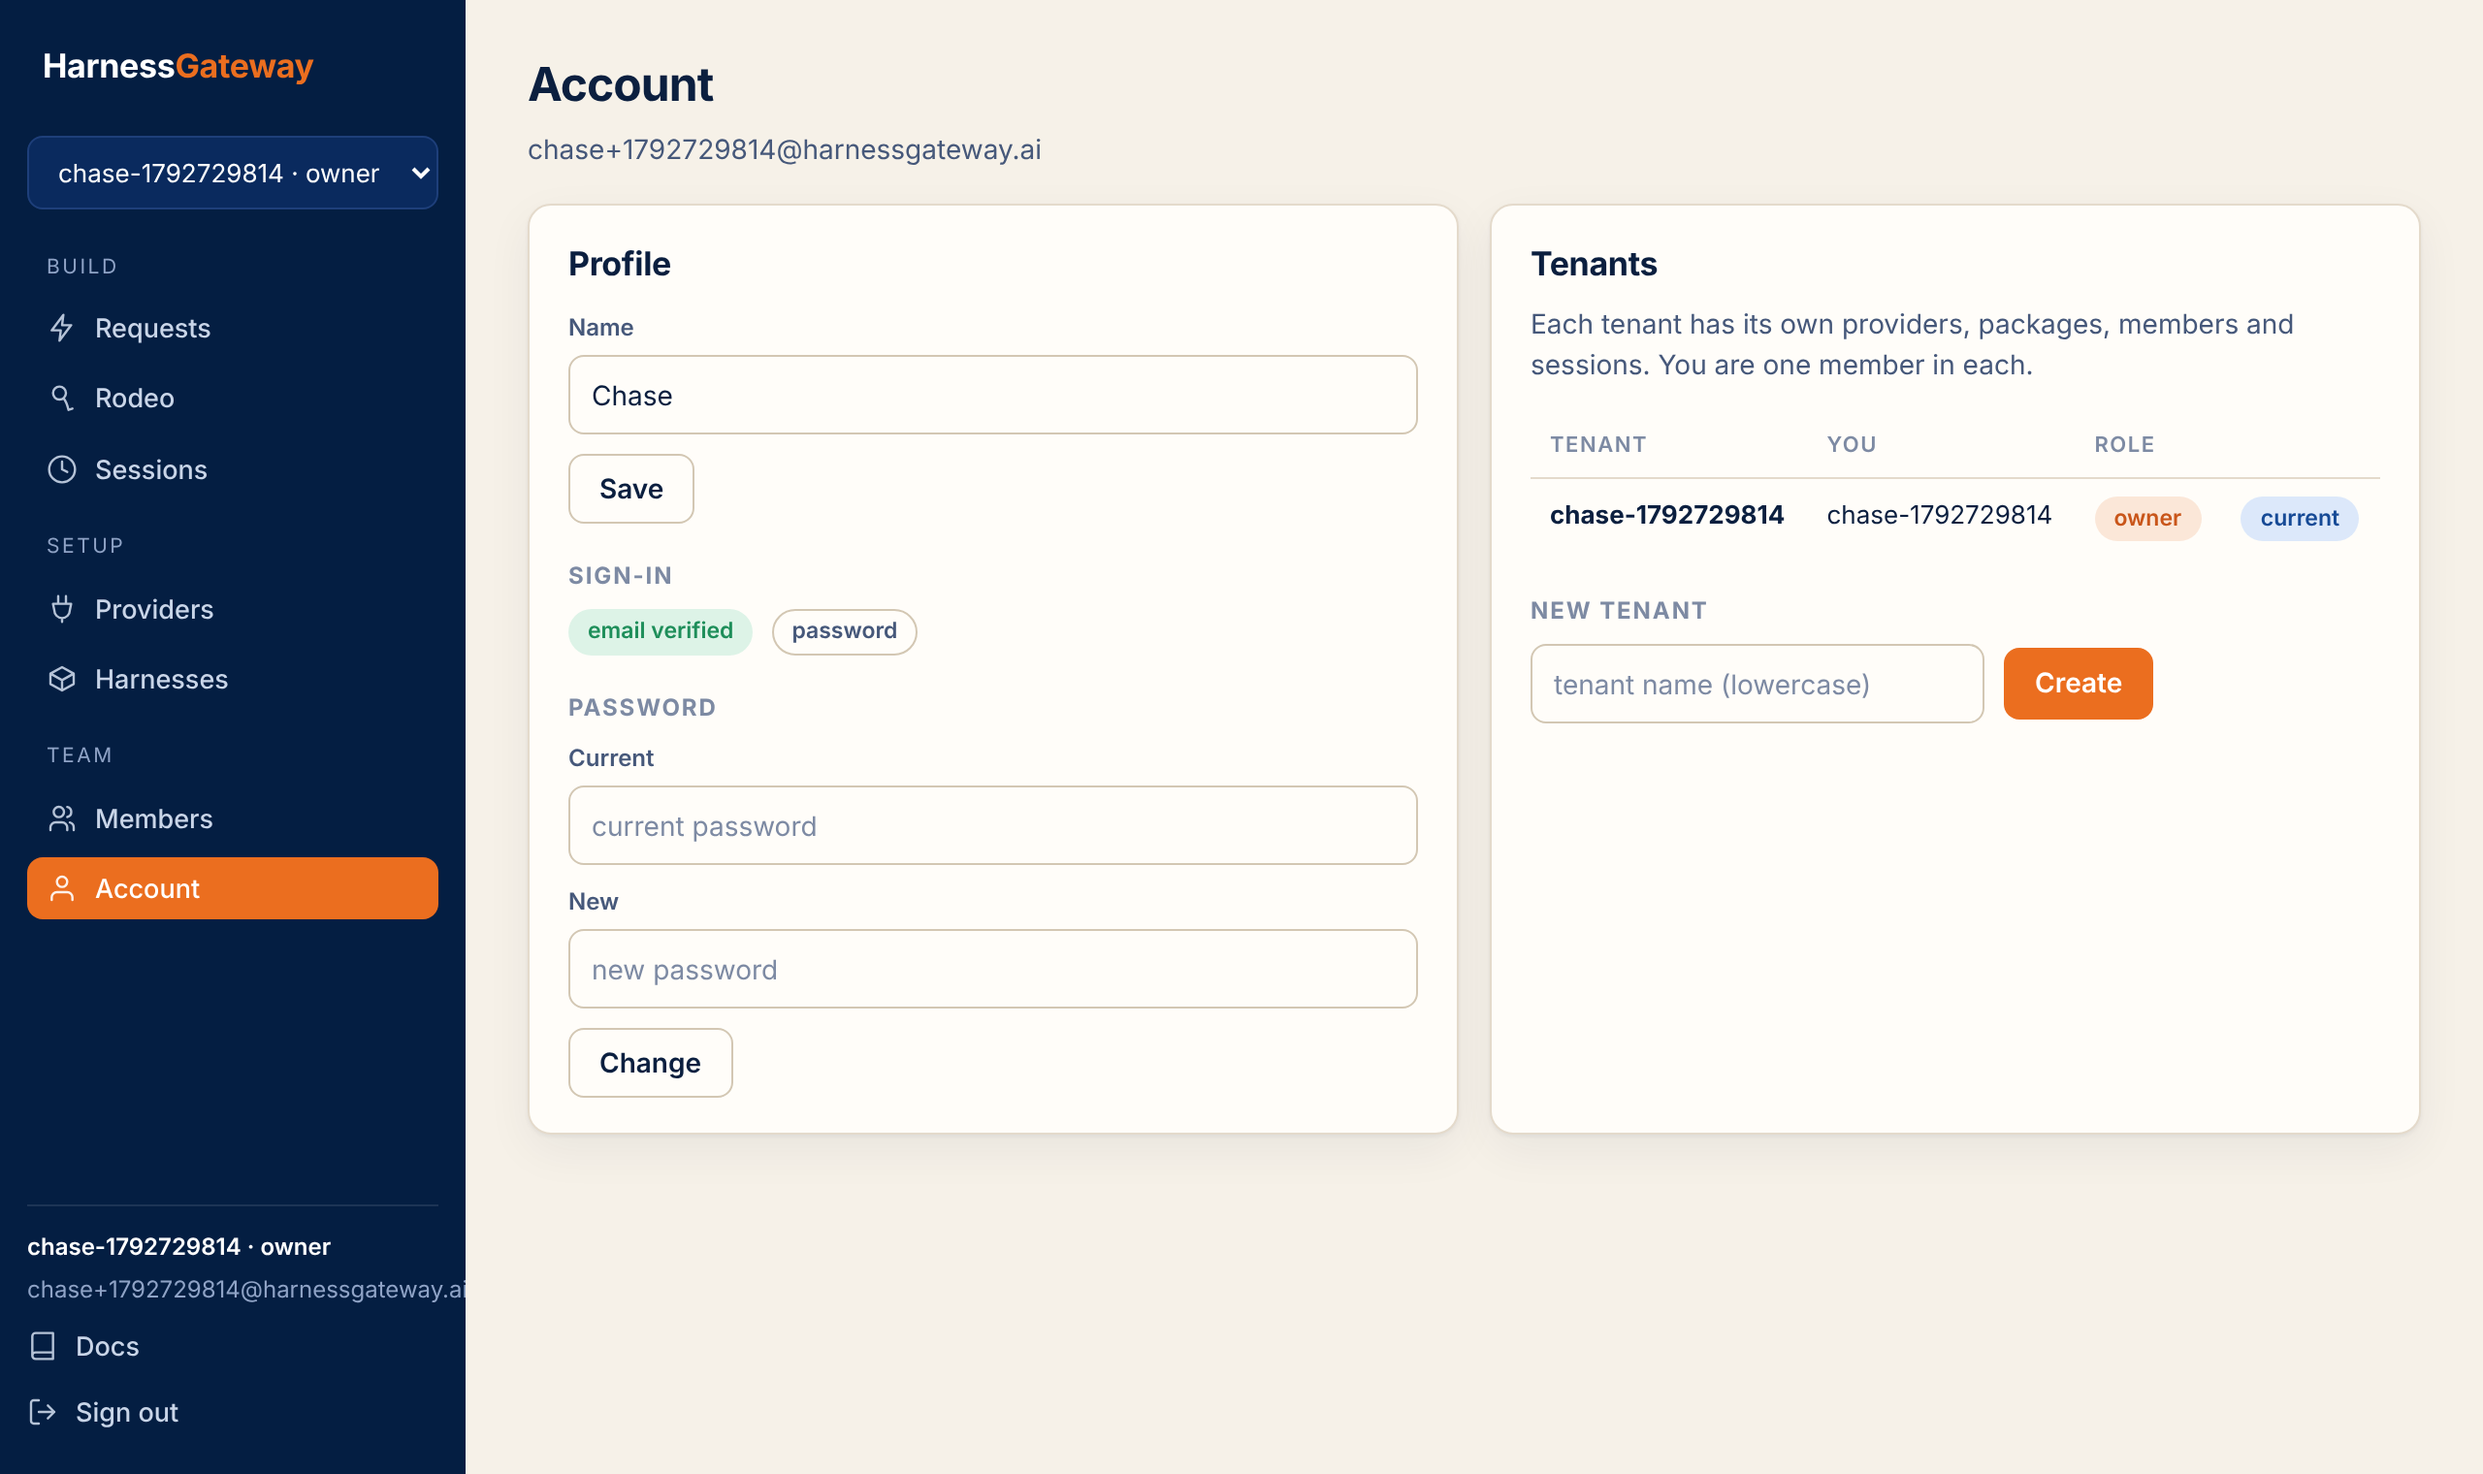
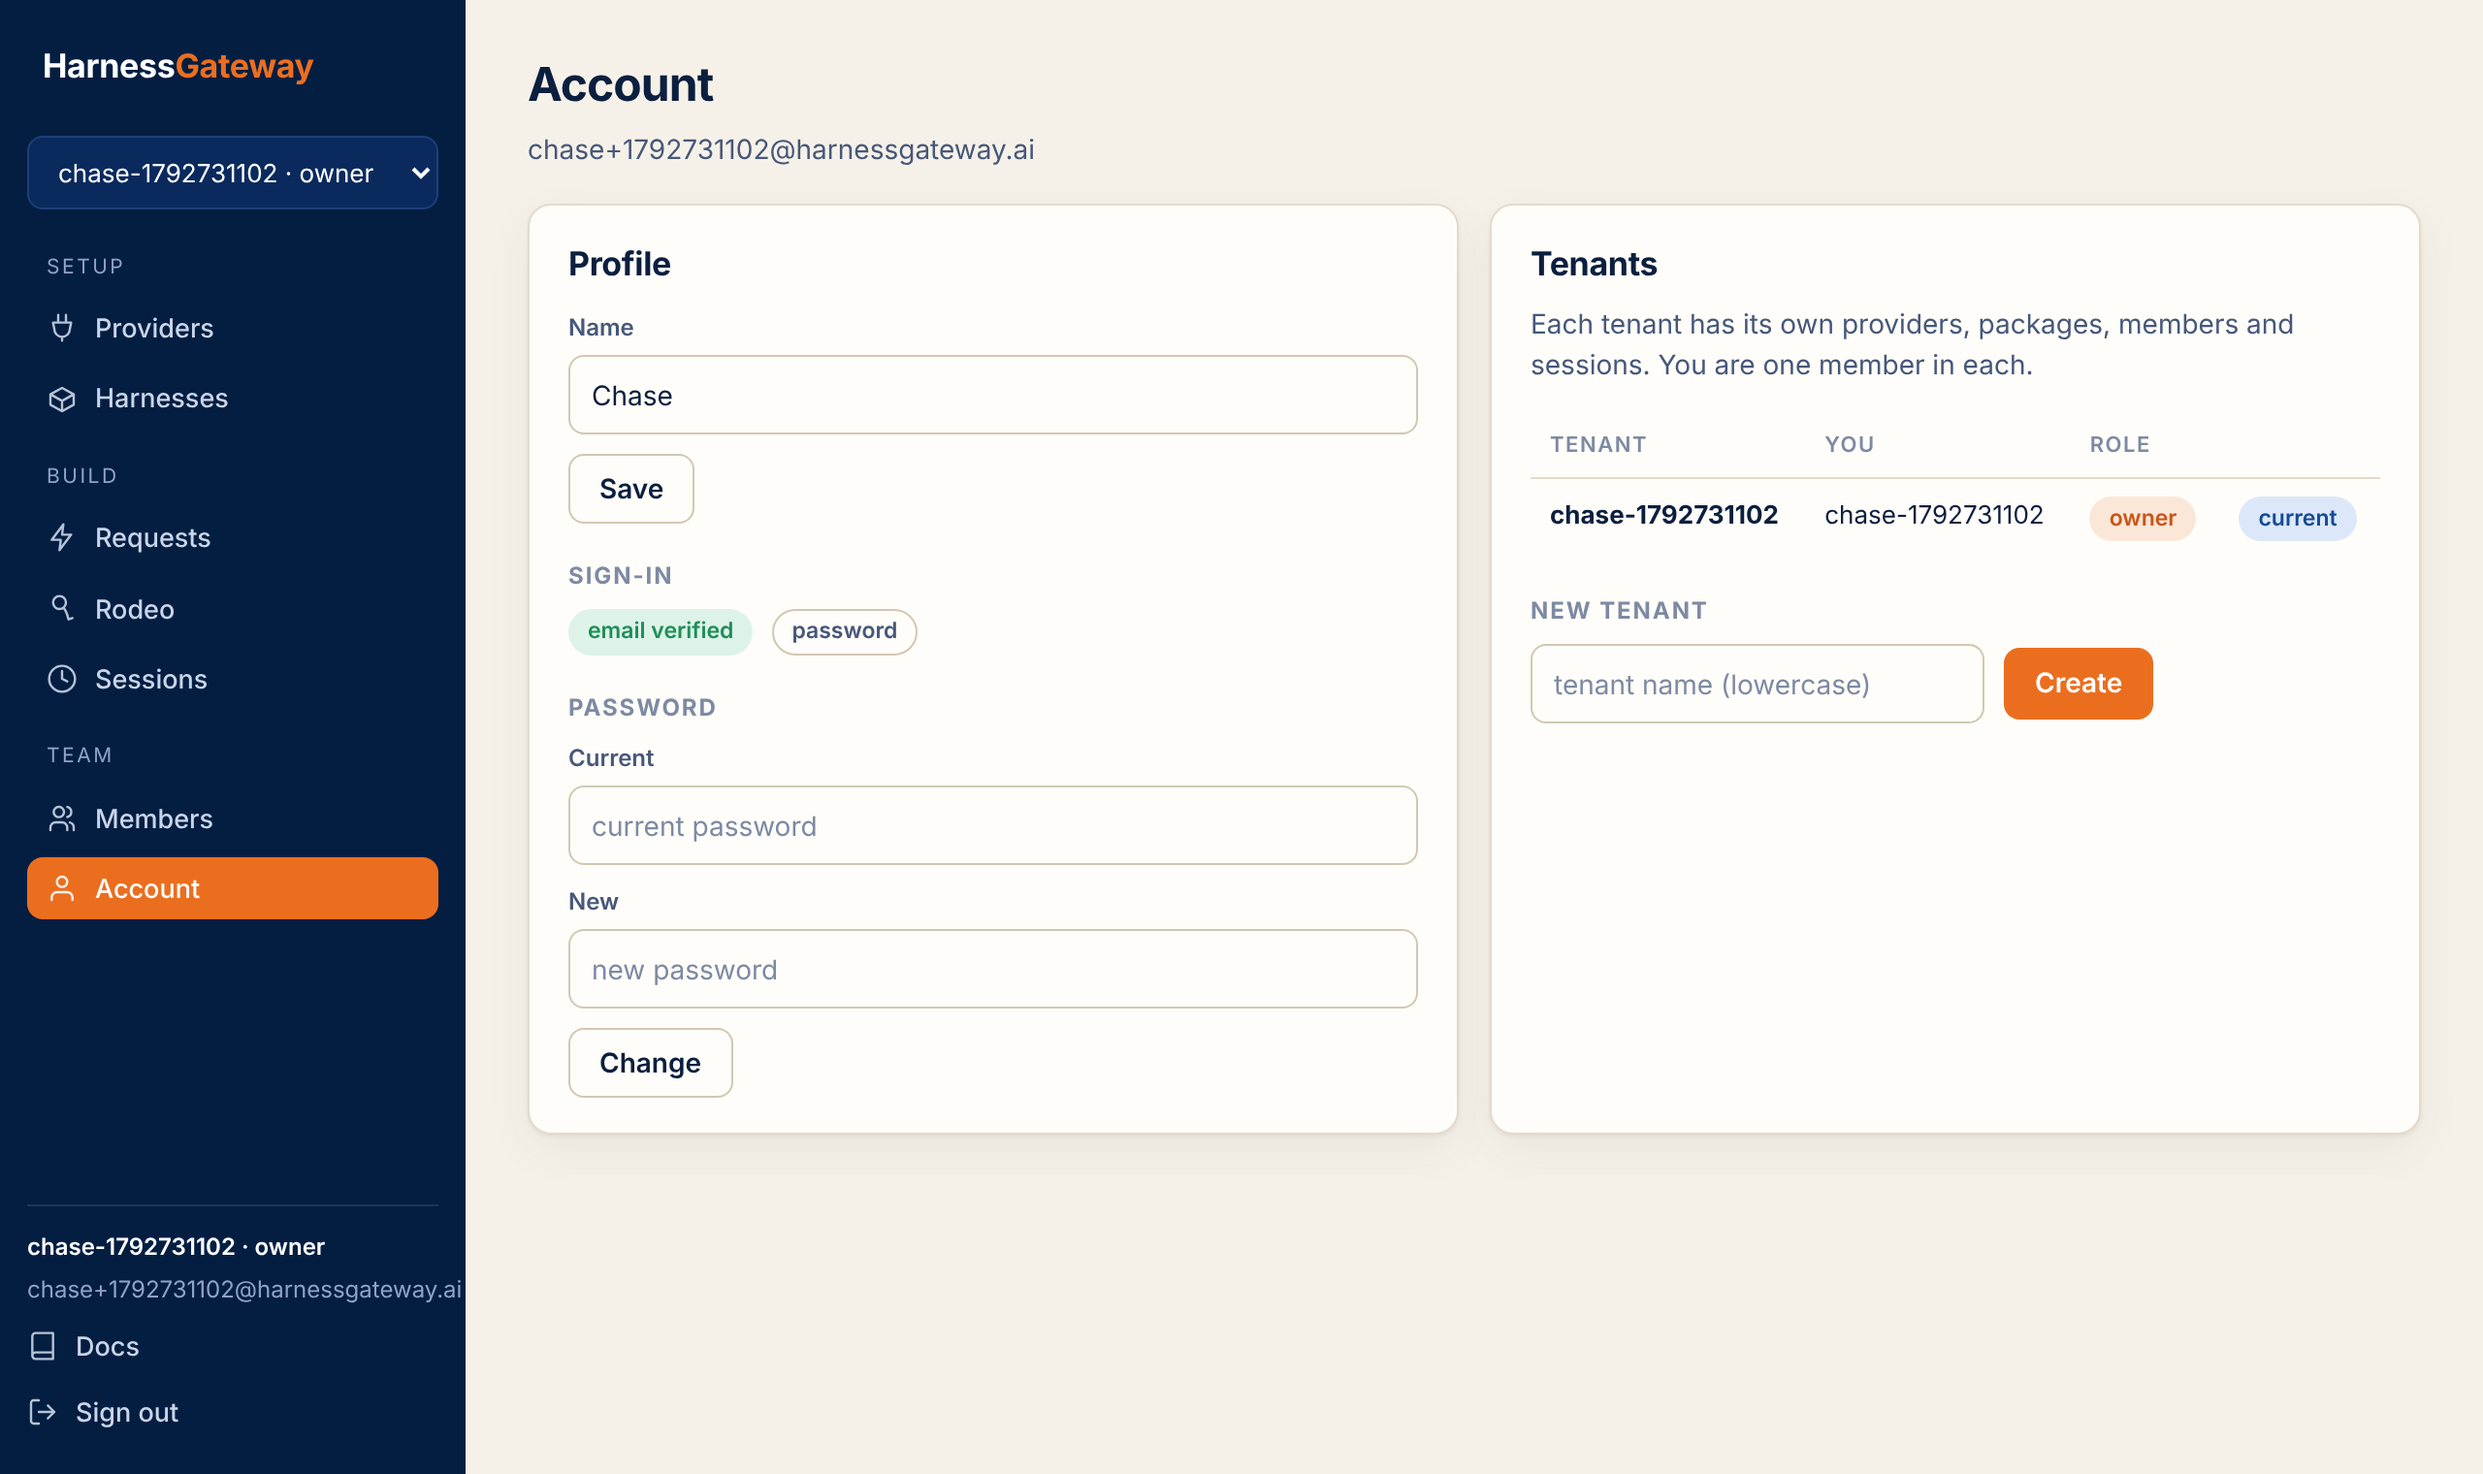
6.1.2: the sidebar in the order you use it
Setup (Providers, Harnesses) first, Build (Requests, Rodeo, Sessions) below it, Team (Members,
Account) at the bottom. A fresh sign-in lands on Providers. The docs' page table follows the
groups, every console screenshot is re-shot with the new order, and the three unreferenced
arena screenshots are gone.

Claude-Session: https://claude.ai/code/session_01ERRZXAJHGKJWMvAyf4LasW

diff --git a/web/app.js b/web/app.js
@@ -104,7 +104,7 @@ function login(note, mode = "signin", resetToken = "") {
 
 // the shell
 const NAV = {
-  member: [["Build", [["Requests", "bolt"], ["Rodeo", "lasso"], ["Sessions", "clock"]]], ["Setup", [["Providers", "plug"], ["Harnesses", "box"]]], ["Team", [["Members", "users"], ["Account", "user"]]]],
+  member: [["Setup", [["Providers", "plug"], ["Harnesses", "box"]]], ["Build", [["Requests", "bolt"], ["Rodeo", "lasso"], ["Sessions", "clock"]]], ["Team", [["Members", "users"], ["Account", "user"]]]],
   deployer: [["Platform", [["Dashboard", "chart"], ["Tenants", "building"], ["Workers", "server"]]]],
 };
 const VIEWS = { Requests: requests, Rodeo: rodeo, Sessions: sessions, Providers: providers, Harnesses: harnesses, Members: members, Account: account, Dashboard: dashboard, Tenants: tenants, Workers: workers };

diff --git a/docs/app.md b/docs/app.md
@@ -43,17 +43,18 @@ storage only, so closing the tab signs you out.
 
 ## The pages
 
-Signed in as a member or an owner, the sidebar has seven pages, in the order you use them:
+Signed in as a member or an owner, the sidebar has seven pages in three groups, in the order
+you use them: Setup, then Build, then Team.
 
-| Page | What |
-|---|---|
-| Requests | a streamed request against a harness, a steer and a cancel while it runs, the response, and the workspace's files after it |
-| Rodeo | one task for two to six harnesses, side by side as they stream; pick the winner; the leaderboard |
-| Sessions | your sessions, or every member's when you are an owner; each opens to its turns, streams, trace, workspace and archive |
-| Providers | the tenant's model endpoints; owners add and remove them |
-| Harnesses | the tenant's packages, forked from the catalog or uploaded; owners add and remove them |
-| Members | the tenant's members and invitations (owners), and your API keys |
-| Account | your name, your password, your tenants; create another tenant |
+| Group | Page | What |
+|---|---|---|
+| Setup | Providers | the tenant's model endpoints; owners add and remove them |
+| Setup | Harnesses | the tenant's packages, forked from the catalog or uploaded; owners add and remove them |
+| Build | Requests | a streamed request against a harness, a steer and a cancel while it runs, the response, and the workspace's files after it |
+| Build | Rodeo | one task for two to six harnesses, side by side as they stream; pick the winner; the leaderboard |
+| Build | Sessions | your sessions, or every member's when you are an owner; each opens to its turns, streams, trace, workspace and archive |
+| Team | Members | the tenant's members and invitations (owners), and your API keys |
+| Team | Account | your name, your password, your tenants; create another tenant |
 
 <figure class="shot" markdown>
 ![A request's result: the response, and the workspace's files with one open in the viewer](assets/console/requests-done.png){ loading=lazy }

diff --git a/CHANGELOG.md b/CHANGELOG.md
@@ -4,6 +4,12 @@ Every release is a section here, newest first, and the newest section's heading 
 A merge to `main` that adds a section releases it: the release workflow tags that version, builds
 the wheel and the image, and publishes the section as its notes.
 
+## [6.1.2]
+
+- **The sidebar in the order you use it.** Setup (Providers, Harnesses) first, Build (Requests,
+  Rodeo, Sessions) below it, Team (Members, Account) at the bottom. A fresh sign-in lands on
+  Providers, the first thing a new tenant needs.
+
 ## [6.1.1]
 
 - **Picky, updated.** The newest portrait on the home page and the sign-in page, and the small
